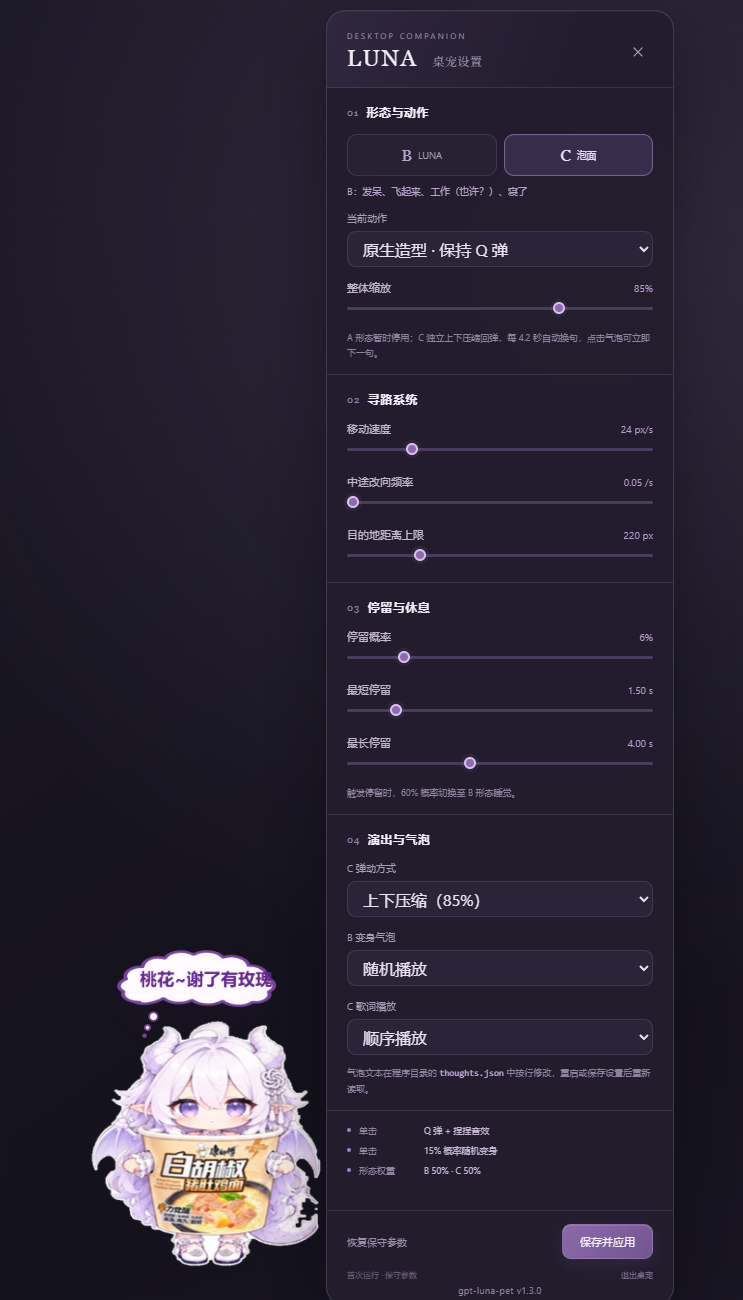
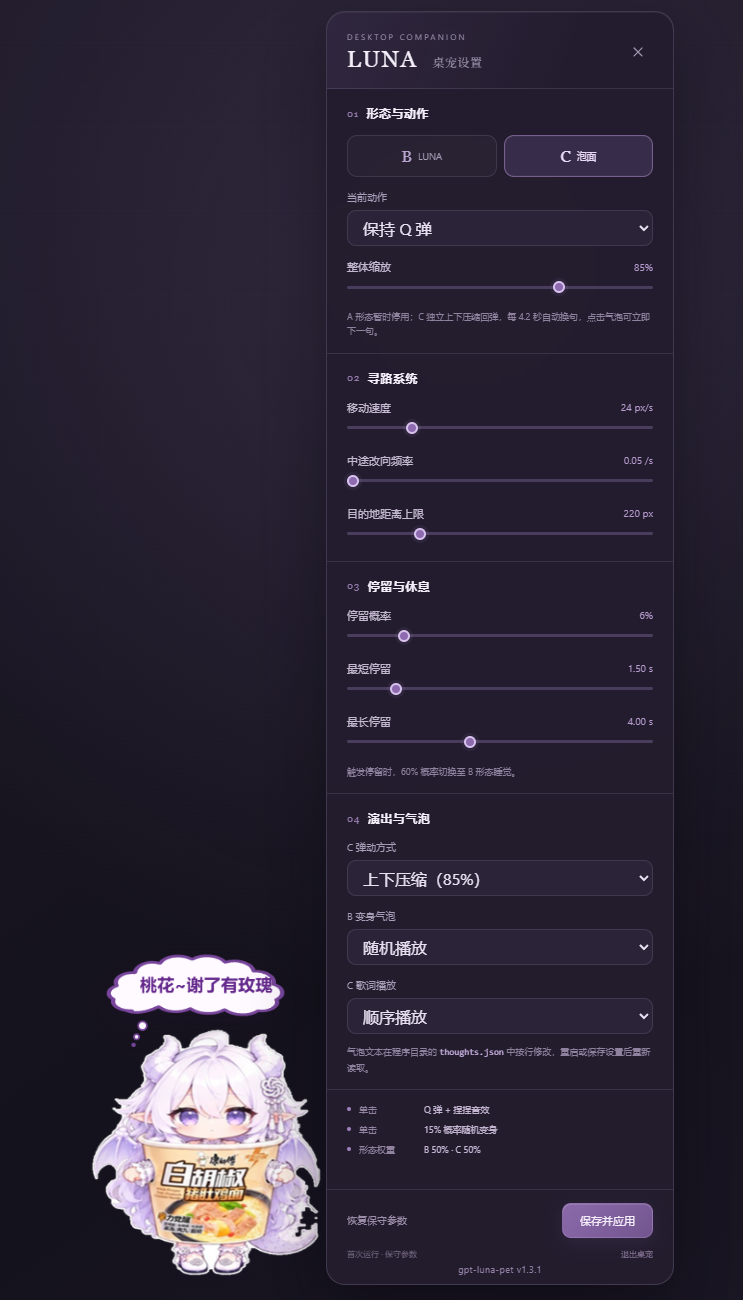
Refine action labels and bubble sizing

diff --git a/tests/browser.test.js b/tests/browser.test.js
@@ -35,9 +35,9 @@ const path = require("node:path");
   assert.equal(await page.locator("#c-bounce-mode option").count(), 3);
   assert.equal(await page.locator("#b-thought-mode option").count(), 2);
   assert.equal(await page.locator("#c-thought-mode option").count(), 2);
-  await page.waitForFunction(() => document.getElementById("app-version").textContent.includes("v1.3.0"));
-  assert.equal(await page.locator("#app-version").textContent(), "gpt-luna-pet v1.3.0");
-  assert.equal(await page.locator(".form-switch-note").textContent(), "B：发呆、飞起来、工作（也许？）、寝了");
+  await page.waitForFunction(() => document.getElementById("app-version").textContent.includes("v1.3.1"));
+  assert.equal(await page.locator("#app-version").textContent(), "gpt-luna-pet v1.3.1");
+  assert.deepEqual(await page.locator("#state-select option").evaluateAll(options => options.map(option => option.textContent)), ["发呆", "飞起来", "工作（也许？）", "寝了"]);
 
   const pet = page.locator("#pet");
   async function pointAtPet() {
@@ -131,6 +131,7 @@ const path = require("node:path");
 
   await page.locator("[data-form=\"C\"]").click();
   await page.waitForFunction(() => document.getElementById("animator").dataset.state === "c-noodle", null, { timeout: 3000 });
+  assert.equal(await page.locator("#state-select option").first().textContent(), "保持 Q 弹");
   assert.ok((await page.locator("#sprite").getAttribute("src")).endsWith("c-native.png"));
   assert.equal(await page.locator("#motion").evaluate(element => getComputedStyle(element).animationName), "none");
   const cBounce = await page.evaluate(() => {

diff --git a/styles.css b/styles.css
@@ -225,9 +225,9 @@ button:focus-visible, select:focus-visible, input:focus-visible { outline: 2px s
   left: 50%;
   bottom: calc(100% - 38px);
   width: max-content;
-  min-width: 180px;
-  max-width: 380px;
-  padding: 20px 31px 22px;
+  min-width: 144px;
+  max-width: 470px;
+  padding: 22px 44px 26px;
   color: #65298d;
   background: url("assets/bubble-cloud.svg") center / 100% 100% no-repeat;
   font-size: 20px;
@@ -235,6 +235,7 @@ button:focus-visible, select:focus-visible, input:focus-visible { outline: 2px s
   line-height: 1.55;
   letter-spacing: .2px;
   text-align: center;
+  overflow-wrap: anywhere;
   cursor: pointer;
   opacity: 0;
   visibility: hidden;
@@ -369,7 +370,6 @@ button:focus-visible, select:focus-visible, input:focus-visible { outline: 2px s
 .section-title { display: flex; align-items: center; gap: 8px; margin-bottom: 14px; font-size: 12px; font-weight: 600; letter-spacing: .5px; }
 .section-title span { color: #947bab; font-family: Georgia, serif; font-size: 10px; font-weight: 400; }
 .form-tabs { display: grid; grid-template-columns: repeat(2, 1fr); gap: 7px; }
-.form-switch-note { margin: 8px 0 0; color: #b8a4ca; font-size: 9.5px; line-height: 1.5; letter-spacing: .2px; }
 .form-note { margin-top: 11px; color: #9c89ad; }
 .section-note code { color: #cdb4e5; font-family: Consolas, "SFMono-Regular", monospace; font-size: 9px; }
 .form-tab {

diff --git a/app.js b/app.js
@@ -13,16 +13,16 @@
     B: {
       label: "LUNA B",
       states: [
-        { id: "b-idle", label: "原图 · 站立发呆（静止）", file: "assets/sprites/b-idle.png" },
-        { id: "b-wings", label: "俯身扇动翅膀 · 24 帧循环", file: "assets/sprites/wings/b-wing-01.png" },
-        { id: "b-scratch", label: "坐在地上拿纸挠头", file: "assets/sprites/b-scratch.png" },
-        { id: "b-sleep", label: "盖被子戴眼罩睡觉", file: "assets/sprites/b-sleep.png" }
+        { id: "b-idle", label: "发呆", file: "assets/sprites/b-idle.png" },
+        { id: "b-wings", label: "飞起来", file: "assets/sprites/wings/b-wing-01.png" },
+        { id: "b-scratch", label: "工作（也许？）", file: "assets/sprites/b-scratch.png" },
+        { id: "b-sleep", label: "寝了", file: "assets/sprites/b-sleep.png" }
       ]
     },
     C: {
       label: "泡面 C",
       states: [
-        { id: "c-noodle", label: "原生造型 · 保持 Q 弹", file: "assets/sprites/c-native.png" }
+        { id: "c-noodle", label: "保持 Q 弹", file: "assets/sprites/c-native.png" }
       ]
     }
   };

diff --git a/index.html b/index.html
@@ -66,7 +66,6 @@
           <button class="form-tab active" data-form="B" type="button"><b>B</b><span>LUNA</span></button>
           <button class="form-tab" data-form="C" type="button"><b>C</b><span>泡面</span></button>
         </div>
-        <p class="form-switch-note">B：发呆、飞起来、工作（也许？）、寝了</p>
         <label class="select-label" for="state-select">当前动作</label>
         <select id="state-select"></select>
         <label class="range-row scale-row">
@@ -143,7 +142,7 @@
       <button id="save-settings" class="primary-button" type="button">保存并应用</button>
     </footer>
     <div class="panel-meta"><span id="settings-status">首次运行 · 保守参数</span><button id="quit-pet" type="button" hidden>退出桌宠</button></div>
-    <div id="app-version" class="app-version">gpt-luna-pet v1.3.0</div>
+    <div id="app-version" class="app-version">gpt-luna-pet v1.3.1</div>
   </aside>
 
   <div id="toast" class="toast" role="status" aria-live="polite"></div>

diff --git a/docs/开发说明.md b/docs/开发说明.md
@@ -32,7 +32,7 @@
 - `b-sleep`：原地睡觉；每 0.38–0.8 秒随机向四周发射 36–54px、5px 紫色粗描边的 Z，位移距离 100–300px，前 70% 行程保持高不透明度后渐隐；单击时立即额外发射 3 个 Z，不弹气泡、不触发变身。
 - 睡觉时右上角显示闹钟按钮。点击后玩具锤从右上方砸下，锤子与按钮消失，同时用“碰！”大字和亮色冲击作为遮挡，切换回 `b-idle` 站立发呆。
 - B 形态仍可移动，但发呆与睡觉固定原地；非睡眠状态单击会显示或推进 B 思考气泡。
-- 设置页 B 形态说明为：“发呆、飞起来、工作（也许？）、寝了”。
+- 设置页 B 形态的四项动作直接命名为“发呆、飞起来、工作（也许？）、寝了”；C 动作简化为“保持 Q 弹”。
 
 ### C 形态
 
@@ -44,8 +44,8 @@
   - `off`：关闭弹动。
 - C 不触发撞边或点击的通用 Q 弹，不进入到站停留/睡眠。
 - 歌词每 4.2 秒切换，点击气泡立即下一句；支持顺序/随机。
-- 气泡为粗紫描边的云朵 SVG 背景，文字 20px、800 字重、深紫色；使用透明度+缩放的渐变入场，气泡点饰同步放大。
-- 设置页底部显示项目名和运行时版本：`gpt-luna-pet v1.3.0`，版本由主进程 `app.getVersion()` 提供。
+- 气泡为粗紫描边的云朵 SVG 背景，文字 20px、800 字重、深紫色、居中；宽度随文字增长，左右各留 44px 内边距，使用透明度+缩放的渐变入场，气泡点饰同步放大。
+- 设置页底部显示项目名和运行时版本：`gpt-luna-pet v1.3.1`，版本由主进程 `app.getVersion()` 提供。
 
 ## 4. 外置文本
 

diff --git a/docs/开发日志.md b/docs/开发日志.md
@@ -50,8 +50,14 @@
 - 气泡换成粗紫描边的云朵 SVG，文字放大到 20px/800 并加渐变回弹入场；默认整体缩放改为 85%。
 - 睡眠 Z 放大到 36–54px，增加 5px 紫色描边，并延长高不透明度的保持时间。
 - 睡眠状态加入闹钟按钮：玩具锤砸下，闹钟与锤子消失，以“碰！”冲击遮挡切回站立。
-- 变身提示提升到 15px；设置页补 B 形态描述和运行时版本信息。
+- 变身提示提升到 15px；设置页补运行时版本信息。
 - 项目正式命名为 `gpt-luna-pet`，设置页仍显示“LUNA 桌宠”。
+
+### 1.3.1 动作短名与气泡自适应
+
+- 设置页 B 形态四项动作替换为“发呆、飞起来、工作（也许？）、寝了”，C 动作去掉“原生造型”前缀，只留“保持 Q 弹”。
+- 气泡宽度跟随文本实际长度，左右内边距增至 44px，文字水平居中，避免压到云朵粗描边。
+- 版本更新为 1.3.1。
 
 ### 1.2.0 正式 B 扇翅
 
@@ -73,7 +79,7 @@
 - 尝试 electron-builder / NSIS 时多次遇到组件下载 502 与挂起；正式安装链改为本机 Inno Setup 6。
 - 安装器按用户安装到 `%LOCALAPPDATA%\Programs\LUNA桌宠`，创建开始菜单、桌面快捷方式和卸载器。
 - 验证：11 项核心测试、Electron 开发版全交互测试、打包 exe 与安装后程序均通过。
-- 程序版本更新为 1.3.0。
+- 程序版本更新为 1.3.1。
 
 ## 归档约定
 
